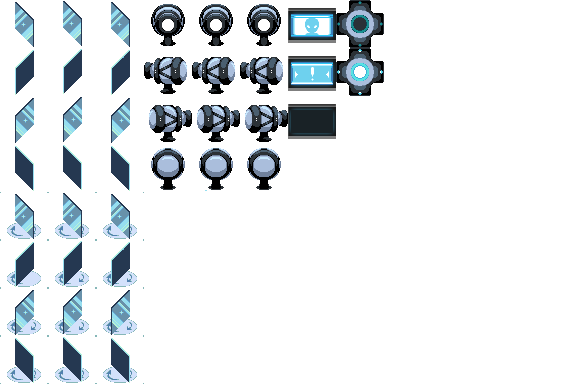
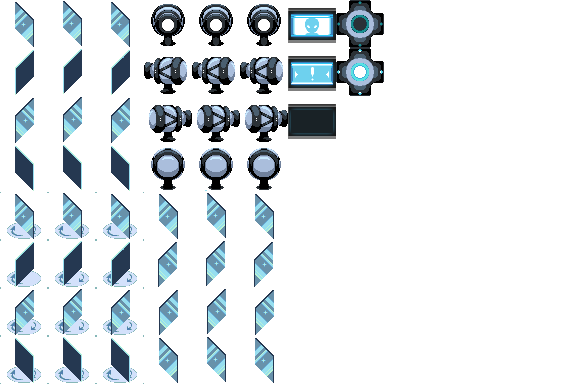
add double mirror images and logic

diff --git a/Mirrim/js/plugins/LaserGenerator.js b/Mirrim/js/plugins/LaserGenerator.js
@@ -290,7 +290,7 @@ function getPlayerBeamContext(in_direction, player_direction){
     return context;
 }
 
-function getBeamContext(in_direction, mirror_direction){
+function getMirrorBeamContext(in_direction, mirror_direction){
     var context = beam_context.DEFAULT_INVALID;
     var out_direction = null;
     if (in_direction === directions.SOUTH){
@@ -363,6 +363,53 @@ function getBeamContext(in_direction, mirror_direction){
     return [context, out_direction];
 }
 
+function getDoubleMirrorBeamContext(in_direction, mirror_direction){
+    var context = beam_context.DEFAULT_INVALID;
+    var out_direction = null;
+    if (in_direction === directions.SOUTH){
+        if (mirror_direction === directions.NORTH || mirror_direction === directions.SOUTH){
+            context = beam_context.RIGHT_UP;
+            out_direction = directions.EAST
+        }
+        else if(mirror_direction === directions.WEST || mirror_direction === directions.EAST){
+            context = beam_context.LEFT_UP;
+            out_direction = directions.WEST;
+        }
+    }
+    else if (in_direction === directions.EAST){
+        if (mirror_direction === directions.WEST || mirror_direction === directions.EAST){
+            context = beam_context.LEFT_UP;
+            out_direction = directions.NORTH;
+        }
+        else if (mirror_direction === directions.SOUTH || mirror_direction === directions.NORTH){
+            context = beam_context.LEFT_DOWN;
+            out_direction = directions.SOUTH;
+        }
+    }
+    else if (in_direction === directions.NORTH){
+        if (mirror_direction === directions.SOUTH || mirror_direction === directions.NORTH){
+            context = beam_context.LEFT_DOWN;
+            out_direction = directions.WEST;
+        }
+        else if (mirror_direction === directions.EAST || mirror_direction === directions.WEST){
+            context = beam_context.RIGHT_DOWN;
+            out_direction = directions.EAST;
+        }
+    }
+    else if (in_direction === directions.WEST){
+        if (mirror_direction === directions.EAST || mirror_direction === directions.WEST){
+            context = beam_context.RIGHT_DOWN;
+            out_direction = directions.SOUTH;
+        }
+        else if (mirror_direction === directions.NORTH || mirror_direction === directions.SOUTH){
+            context = beam_context.RIGHT_UP;
+            out_direction = directions.NORTH;
+        }
+    }
+
+    return [context, out_direction];
+}
+
 function getNextLocation(x, y, direction) {
     var ret_x, ret_y;
     if (direction === directions.NORTH){
@@ -429,7 +476,27 @@ class Node{
     }
 
     getNewMirrowBeam(x, y, in_direction, mirror_direction){
-        var [context, out_direction] = getBeamContext(this.direction, mirror_direction);
+        var [context, out_direction] = getMirrorBeamContext(this.direction, mirror_direction);
+
+        var elbow_id = getLaserTileId(context, this.colour);
+        Galv.SPAWN.event(elbow_id, x, y,false);
+        var events = $gameMap.eventsXy(x,y);
+        var event_id = events.pop().eventId();
+
+        var new_beam;
+        if (out_direction){
+            new_beam = new Beam(event_id, this.map_id, this, out_direction, this.colour);
+            this.addChild(new_beam);
+            this.child.drawBeam();
+        }
+        else{
+            new_beam = new Beam(event_id, this.map_id, this, in_direction, this.colour);
+            this.addChild(new_beam);
+        }
+    }
+
+    getNewDoubleMirrowBeam(x, y, in_direction, mirror_direction){
+        var [context, out_direction] = getDoubleMirrorBeamContext(this.direction, mirror_direction);
 
         var elbow_id = getLaserTileId(context, this.colour);
         Galv.SPAWN.event(elbow_id, x, y,false);
@@ -494,6 +561,13 @@ class Node{
                 var mirror_direction = event_obj.direction();
 
                 this.getNewMirrowBeam(x, y, this.direction, mirror_direction);
+                return;
+            }
+            else if (name.startsWith("DMIR")){
+                event_obj = $gameMap._events[event];
+                var mirror_direction = event_obj.direction();
+
+                this.getNewDoubleMirrowBeam(x, y, this.direction, mirror_direction);
                 return;
             }
             else if (name.startsWith("RCV")){
@@ -608,7 +682,7 @@ class LaserGenerator extends Node{
             }
             else{
                 var name = $dataMap.events[events[i].eventId()].name;
-                if(name.startsWith("MIR")){
+                if(name.startsWith("MIR") || name.startsWith("DMIR")){
                     mirror_event = events[i];
                 }
             }
